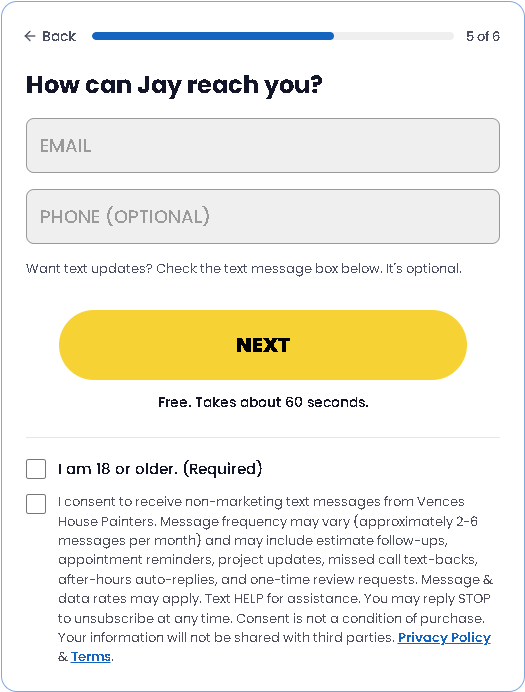
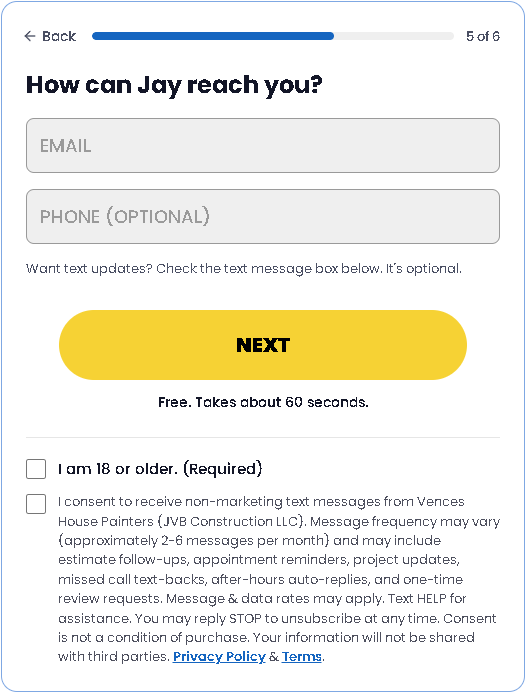
Tie the site to the A2P legal entity: JVB Construction LLC d/b/a Vences House Painters
The brand was registered under EIN as JVB CONSTRUCTION LLC. Reviewers
look for the registered name on the site, so it now appears in the SMS
consent text, both policies (overview, platform operator, program
name), the contact block and the footer. Opt-in screenshot retaken and
A2P doc updated.

Claude-Session: https://claude.ai/code/session_01WZPaWHBYQHxPT3Pw6xzbb7

Changed region(s): [[0.1219, 0.7283, 0.9448, 0.9711]]

diff --git a/src/pages/Terms.tsx b/src/pages/Terms.tsx
@@ -1,17 +1,17 @@
 import { Link } from "react-router-dom";
 import { ContactBlock, Label, LegalPage, Section } from "@/components/Legal";
-import { EMAIL, LEGAL_NAME, PRIVACY_PATH, SITE_URL } from "@/lib/site";
+import { EMAIL, BRAND_NAME, LEGAL_ENTITY, PRIVACY_PATH, SITE_URL } from "@/lib/site";
 import { usePageTitle } from "@/lib/usePageTitle";
 
 const DOMAIN = SITE_URL.replace(/^https?:\/\//, "");
 
 export default function Terms() {
-    usePageTitle(`Terms of Service | ${LEGAL_NAME}`);
+    usePageTitle(`Terms of Service | ${BRAND_NAME}`);
 
     return (
         <LegalPage title="Terms of Service">
             <Section title="Acceptance of Terms">
-                <p>By accessing {DOMAIN} or engaging {LEGAL_NAME}, you agree to these Terms of Service and our <Link to={PRIVACY_PATH} className="text-brand hover:underline">Privacy Policy</Link>. If you do not agree, please do not use the site.</p>
+                <p>{BRAND_NAME} is a d/b/a of {LEGAL_ENTITY}. By accessing {DOMAIN} or engaging {BRAND_NAME}, you agree to these Terms of Service and our <Link to={PRIVACY_PATH} className="text-brand hover:underline">Privacy Policy</Link>. If you do not agree, please do not use the site.</p>
             </Section>
 
             <Section title="Eligibility & Age Restriction">
@@ -19,7 +19,7 @@ export default function Terms() {
             </Section>
 
             <Section title="Our Services">
-                <p>{LEGAL_NAME} provides residential and commercial painting services in the Houston, Texas area, including interior painting, exterior painting, cabinet refinishing, trim and door painting, and drywall repair. Descriptions on this site are general information and do not constitute a binding offer.</p>
+                <p>{BRAND_NAME} provides residential and commercial painting services in the Houston, Texas area, including interior painting, exterior painting, cabinet refinishing, trim and door painting, and drywall repair. Descriptions on this site are general information and do not constitute a binding offer.</p>
             </Section>
 
             <Section title="Estimates">
@@ -27,8 +27,8 @@ export default function Terms() {
             </Section>
 
             <Section title="SMS / Text Messaging Terms">
-                <p><Label>Platform Operator:</Label> {LEGAL_NAME} uses QuickLaunchWeb as its platform operator for all SMS communications. QuickLaunchWeb sends all text messages on behalf of {LEGAL_NAME}. All phone numbers used for messaging are owned and operated by QuickLaunchWeb under a single brand registration.</p>
-                <p><Label>Program Name:</Label> {`${LEGAL_NAME} SMS Program`}</p>
+                <p><Label>Platform Operator:</Label> {BRAND_NAME} ({LEGAL_ENTITY}) uses QuickLaunchWeb as its platform operator for all SMS communications. QuickLaunchWeb sends all text messages on behalf of {BRAND_NAME}. All phone numbers used for messaging are owned and operated by QuickLaunchWeb under a single brand registration.</p>
+                <p><Label>Program Name:</Label> {`${BRAND_NAME} SMS Program (${LEGAL_ENTITY})`}</p>
                 <p><Label>How to Opt In:</Label> Website form only. You opt in by checking the unchecked SMS consent box on our estimate request form. The phone number field is optional, and consent is not required to request an estimate or to buy any service. You must be 18 or older to opt in.</p>
                 <p><Label>Program Description:</Label> When you submit an estimate request on our website and opt in to SMS by checking the consent checkbox, you may receive the following types of service-related, non-marketing text messages:</p>
                 <ul className="list-disc space-y-1 pl-5">
@@ -48,11 +48,11 @@ export default function Terms() {
             </Section>
 
             <Section title="Use of the Website">
-                <p>You agree to use the site lawfully and not to interfere with its operation or attempt unauthorized access. All content and branding on this site belong to {LEGAL_NAME} or its licensors and may not be reproduced without permission.</p>
+                <p>You agree to use the site lawfully and not to interfere with its operation or attempt unauthorized access. All content and branding on this site belong to {BRAND_NAME} or its licensors and may not be reproduced without permission.</p>
             </Section>
 
             <Section title="Disclaimers & Limitation of Liability">
-                <p>The site is provided "as is" without warranties of any kind. To the fullest extent permitted by law, {LEGAL_NAME} is not liable for indirect or incidental damages arising from your use of the site. Nothing here limits the warranties or obligations stated in a signed project agreement.</p>
+                <p>The site is provided "as is" without warranties of any kind. To the fullest extent permitted by law, {BRAND_NAME} is not liable for indirect or incidental damages arising from your use of the site. Nothing here limits the warranties or obligations stated in a signed project agreement.</p>
             </Section>
 
             <Section title="Governing Law">

diff --git a/api/send.ts b/api/send.ts
@@ -3,7 +3,7 @@ import { Resend } from "resend";
 import { pushToGhl } from "./_ghl";
 import { assess, verifyTurnstile } from "./_spam";
 import { SERVICES, SITUATIONS, TIMELINES, byValue } from "../src/lib/estimate";
-import { LEGAL_NAME, PHONE_DISPLAY, PHONE_TEL, SITE_URL } from "../src/lib/site";
+import { BRAND_NAME, PHONE_DISPLAY, PHONE_TEL, SITE_URL } from "../src/lib/site";
 
 export const config = { runtime: "nodejs" };
 
@@ -157,7 +157,7 @@ export default async function handler(req: VercelRequest, res: VercelResponse) {
   <table role="presentation" cellpadding="0" cellspacing="0" width="100%" style="max-width:600px;margin:0 auto;background:#fff;border:1px solid #e5e7eb;border-radius:16px;overflow:hidden;">
     <tr><td style="border-top:6px solid #1B1F24;padding:18px 20px;border-bottom:1px solid #f1f5f9;">
       <table role="presentation" width="100%"><tr>
-        <td style="font-size:16px;font-weight:700;color:#1B1F24;">${esc(LEGAL_NAME)}</td>
+        <td style="font-size:16px;font-weight:700;color:#1B1F24;">${esc(BRAND_NAME)}</td>
         <td align="right"><span style="background:${ACCENT};color:#fff;font-weight:700;font-size:12px;padding:6px 10px;border-radius:999px;">NEW ESTIMATE REQUEST</span></td>
       </tr></table>
     </td></tr>
@@ -219,13 +219,13 @@ export default async function handler(req: VercelRequest, res: VercelResponse) {
 <div style="background:#f3f4f6;margin:0;padding:24px 12px;font-family:-apple-system,BlinkMacSystemFont,'Segoe UI',Roboto,Helvetica,Arial,sans-serif;color:#111827;">
   <table role="presentation" cellpadding="0" cellspacing="0" width="100%" style="max-width:600px;margin:0 auto;background:#fff;border:1px solid #e5e7eb;border-radius:16px;overflow:hidden;">
     <tr><td style="border-top:6px solid #1B1F24;padding:24px 24px 0;text-align:center;">
-      <div style="font-size:18px;font-weight:800;letter-spacing:0.5px;color:#1B1F24;">${esc(LEGAL_NAME.toUpperCase())}</div>
+      <div style="font-size:18px;font-weight:800;letter-spacing:0.5px;color:#1B1F24;">${esc(BRAND_NAME.toUpperCase())}</div>
       <div style="font-size:11px;color:${ACCENT};letter-spacing:2px;text-transform:uppercase;margin-top:4px;">Houston, Texas</div>
     </td></tr>
     <tr><td style="padding:28px 24px;">
       <div style="font-size:22px;font-weight:800;margin:0 0 16px;color:#1B1F24;">Hi ${esc(firstName)},</div>
       <p style="font-size:15px;color:#374151;line-height:1.7;margin:0 0 16px;">
-        Thank you for reaching out to ${esc(LEGAL_NAME)}. We received your estimate request, and Jay will get back to you within one business day to set up a time to see the project.
+        Thank you for reaching out to ${esc(BRAND_NAME)}. We received your estimate request, and Jay will get back to you within one business day to set up a time to see the project.
       </p>
       <table role="presentation" width="100%" style="border:1px solid #e5e7eb;border-radius:10px;overflow:hidden;font-size:14px;margin-bottom:24px;">
         <tr><td style="background:#f9fafb;padding:12px 16px;font-weight:700;border-bottom:1px solid #e5e7eb;">Your Request</td></tr>
@@ -239,7 +239,7 @@ export default async function handler(req: VercelRequest, res: VercelResponse) {
         Need to reach us sooner? Call <a href="tel:${PHONE_TEL}" style="color:${ACCENT};font-weight:700;text-decoration:none;">${PHONE_DISPLAY}</a>.
       </p>
       <div style="border-top:1px solid #e5e7eb;padding-top:20px;text-align:center;font-size:12px;color:#6b7280;">
-        ${esc(LEGAL_NAME)} · Houston, Texas
+        ${esc(BRAND_NAME)} · Houston, Texas
       </div>
     </td></tr>
   </table>
@@ -266,12 +266,12 @@ export default async function handler(req: VercelRequest, res: VercelResponse) {
         }
 
         await resend.emails.send({
-            from: `${LEGAL_NAME} <leads@quicklaunchweb.us>`,
+            from: `${BRAND_NAME} <leads@quicklaunchweb.us>`,
             to: [email],
             replyTo: toEmail,
             subject: `We received your estimate request, ${firstName}`,
             html: prospectHtml,
-            text: `Hi ${firstName},\n\nThank you for reaching out to ${LEGAL_NAME}. We received your estimate request for ${serviceLabel}, and Jay will get back to you within one business day to set up a time to see the project.\n\nNeed to reach us sooner? Call ${PHONE_DISPLAY}.\n\n${LEGAL_NAME} · Houston, Texas`,
+            text: `Hi ${firstName},\n\nThank you for reaching out to ${BRAND_NAME}. We received your estimate request for ${serviceLabel}, and Jay will get back to you within one business day to set up a time to see the project.\n\nNeed to reach us sooner? Call ${PHONE_DISPLAY}.\n\n${BRAND_NAME} · Houston, Texas`,
         }).catch((err) => console.error("Prospect email failed (non-blocking):", err));
     } catch (error) {
         console.error("Unhandled exception:", error);

diff --git a/src/components/Layout.tsx b/src/components/Layout.tsx
@@ -2,7 +2,7 @@ import { useEffect } from "react";
 import { Link, useLocation } from "react-router-dom";
 import { Phone } from "lucide-react";
 import {
-    ADDRESS, EMAIL, LEGAL_NAME, PHONE_DISPLAY, PHONE_TEL, PRIVACY_PATH, SERVICE_AREA, SERVICES_LINE, TERMS_PATH,
+    ADDRESS, DBA_LINE, EMAIL, BRAND_NAME, LEGAL_ENTITY, PHONE_DISPLAY, PHONE_TEL, PRIVACY_PATH, SERVICE_AREA, SERVICES_LINE, TERMS_PATH,
 } from "@/lib/site";
 
 export default function Layout({ children }: { children: React.ReactNode }) {
@@ -13,9 +13,9 @@ export default function Layout({ children }: { children: React.ReactNode }) {
         <div className="flex min-h-screen flex-col">
             <header className="bg-ink text-white">
                 <div className="wrap flex h-[64px] items-center justify-between gap-4 sm:h-[72px]">
-                    <Link to="/" className="flex items-center gap-2.5" aria-label={`${LEGAL_NAME} home`}>
+                    <Link to="/" className="flex items-center gap-2.5" aria-label={`${BRAND_NAME} home`}>
                         <img src="/img/logo-mark.webp" alt="" width={160} height={125} className="h-9 w-auto sm:h-10" />
-                        <img src="/img/logo-word.webp" alt={LEGAL_NAME} width={520} height={113} className="h-7 w-auto sm:h-8" />
+                        <img src="/img/logo-word.webp" alt={BRAND_NAME} width={520} height={113} className="h-7 w-auto sm:h-8" />
                     </Link>
                     <a href={`tel:${PHONE_TEL}`} className="inline-flex items-center gap-2 rounded-full bg-brand px-4 py-2 text-[14px] font-semibold text-white hover:bg-brand-dark">
                         <Phone className="h-4 w-4" aria-hidden="true" />
@@ -29,9 +29,10 @@ export default function Layout({ children }: { children: React.ReactNode }) {
 
             <footer className="bg-ink text-white/75">
                 <div className="wrap grid gap-8 py-10 text-[14px] sm:grid-cols-[auto_1fr_auto] sm:items-center">
-                    <img src="/img/logo-lockup.webp" alt={LEGAL_NAME} width={640} height={586} loading="lazy" className="h-24 w-auto" />
+                    <img src="/img/logo-lockup.webp" alt={BRAND_NAME} width={640} height={586} loading="lazy" className="h-24 w-auto" />
                     <div>
-                        <p className="font-semibold text-white">{LEGAL_NAME}</p>
+                        <p className="font-semibold text-white">{BRAND_NAME}</p>
+                        <p className="text-white/60">{DBA_LINE}.</p>
                         <p className="mb-2 max-w-md text-white/60">{SERVICES_LINE} Serving {SERVICE_AREA}.</p>
                         <p>{ADDRESS.street}</p>
                         <p>{ADDRESS.city}, {ADDRESS.state} {ADDRESS.zip}</p>
@@ -47,7 +48,7 @@ export default function Layout({ children }: { children: React.ReactNode }) {
                         <Link to={TERMS_PATH} className="py-2 hover:text-white">Terms of Service</Link>
                     </nav>
                     <p className="text-[12px] text-white/50 sm:col-span-3">
-                        © {new Date().getFullYear()} {LEGAL_NAME}. All rights reserved.
+                        © {new Date().getFullYear()} {LEGAL_ENTITY} d/b/a {BRAND_NAME}. All rights reserved.
                     </p>
                 </div>
             </footer>

diff --git a/src/pages/PrivacyPolicy.tsx b/src/pages/PrivacyPolicy.tsx
@@ -1,17 +1,17 @@
 import { Link } from "react-router-dom";
 import { ContactBlock, Label, LegalPage, Section } from "@/components/Legal";
-import { CONSENT_TEXT, EMAIL, LEGAL_NAME, SITE_URL, TERMS_PATH } from "@/lib/site";
+import { CONSENT_TEXT, EMAIL, BRAND_NAME, LEGAL_ENTITY, SITE_URL, TERMS_PATH } from "@/lib/site";
 import { usePageTitle } from "@/lib/usePageTitle";
 
 const DOMAIN = SITE_URL.replace(/^https?:\/\//, "");
 
 export default function PrivacyPolicy() {
-    usePageTitle(`Privacy Policy | ${LEGAL_NAME}`);
+    usePageTitle(`Privacy Policy | ${BRAND_NAME}`);
 
     return (
         <LegalPage title="Privacy Policy">
             <Section title="Overview">
-                <p>{LEGAL_NAME} ("we," "us," or "our") respects your privacy. This policy explains what information we collect through {DOMAIN}, how we use it, and the choices you have. By using this website or contacting us, you agree to this policy.</p>
+                <p>{BRAND_NAME}, a d/b/a of {LEGAL_ENTITY} ("we," "us," or "our"), respects your privacy. This policy explains what information we collect through {DOMAIN}, how we use it, and the choices you have. By using this website or contacting us, you agree to this policy.</p>
             </Section>
 
             <Section title="Information We Collect">
@@ -23,7 +23,7 @@ export default function PrivacyPolicy() {
             </Section>
 
             <Section title="SMS / Text Messaging">
-                <p><Label>Platform Operator Disclosure:</Label> {LEGAL_NAME} uses QuickLaunchWeb as its platform operator for all SMS/text messaging. QuickLaunchWeb is the sole sender of all SMS messages. Phone numbers used for messaging are owned, registered, and operated by QuickLaunchWeb. {LEGAL_NAME} does not independently send text messages. QuickLaunchWeb sends all messages on its behalf.</p>
+                <p><Label>Platform Operator Disclosure:</Label> {BRAND_NAME} ({LEGAL_ENTITY}) uses QuickLaunchWeb as its platform operator for all SMS/text messaging. QuickLaunchWeb is the sole sender of all SMS messages. Phone numbers used for messaging are owned, registered, and operated by QuickLaunchWeb. {BRAND_NAME} does not independently send text messages. QuickLaunchWeb sends all messages on its behalf.</p>
                 <p><Label>Message Types:</Label> All SMS messages sent through our website are service-related, non-marketing messages only. Messages include estimate request confirmations, appointment scheduling and reminders, project updates, missed call text-backs, after-hours auto-replies, and one-time review requests after a completed service. We do not send promotional or marketing text messages.</p>
                 <p><Label>How You Opt In:</Label> The only way to opt in is through the estimate request form on this website. The form includes an optional phone number field and an SMS consent checkbox that is not pre-checked. You must actively check the box to opt in. The checkbox reads:</p>
                 <p className="border-l-2 border-brand/40 pl-4 italic">"{CONSENT_TEXT} Privacy Policy &amp; Terms."</p>

diff --git a/src/lib/site.ts b/src/lib/site.ts
@@ -7,9 +7,15 @@
 
 export const SITE_URL = "https://estimate.venceshousepainterstx.com";
 
-// No LLC / Inc / Company here unless it is on the registration.
-// A corporate identifier that doesn't match the A2P brand is a rejection.
-export const LEGAL_NAME = "Vences House Painters";
+// The trading name customers see everywhere on the site.
+export const BRAND_NAME = "Vences House Painters";
+
+// The entity on the IRS EIN letter and the A2P brand registration.
+// Reviewers look for this on the site, so it appears in the consent text,
+// both policies and the footer, always tied to the brand as a d/b/a.
+export const LEGAL_ENTITY = "JVB Construction LLC";
+export const DBA_LINE = `${BRAND_NAME} is a d/b/a of ${LEGAL_ENTITY}`;
+
 export const OWNER = "Jairo \"Jay\" Vences";
 
 export const PHONE_DISPLAY = "(832) 979-8127";
@@ -40,7 +46,7 @@ export const POLICY_EFFECTIVE = "September 21, 2026";
  * for word in the Privacy Policy. Non-marketing only: no promotional texts.
  */
 export const CONSENT_TEXT =
-    `I consent to receive non-marketing text messages from ${LEGAL_NAME}. Message frequency may vary (approximately 2-6 messages per month) and may include estimate follow-ups, appointment reminders, project updates, missed call text-backs, after-hours auto-replies, and one-time review requests. Message & data rates may apply. Text HELP for assistance. You may reply STOP to unsubscribe at any time. Consent is not a condition of purchase. Your information will not be shared with third parties.`;
+    `I consent to receive non-marketing text messages from ${BRAND_NAME} (${LEGAL_ENTITY}). Message frequency may vary (approximately 2-6 messages per month) and may include estimate follow-ups, appointment reminders, project updates, missed call text-backs, after-hours auto-replies, and one-time review requests. Message & data rates may apply. Text HELP for assistance. You may reply STOP to unsubscribe at any time. Consent is not a condition of purchase. Your information will not be shared with third parties.`;
 
 /**
  * Video sales letter. Drop the finished horizontal (16:9) edit into

diff --git a/src/components/Legal.tsx b/src/components/Legal.tsx
@@ -1,4 +1,4 @@
-import { ADDRESS, EMAIL, LEGAL_NAME, PHONE_DISPLAY, PHONE_TEL, POLICY_EFFECTIVE } from "@/lib/site";
+import { ADDRESS, EMAIL, BRAND_NAME, LEGAL_ENTITY, PHONE_DISPLAY, PHONE_TEL, POLICY_EFFECTIVE } from "@/lib/site";
 
 export function LegalPage({ title, children }: { title: string; children: React.ReactNode }) {
     return (
@@ -27,7 +27,7 @@ export function Label({ children }: { children: React.ReactNode }) {
 export function ContactBlock() {
     return (
         <p>
-            {LEGAL_NAME}<br />
+            {LEGAL_ENTITY} d/b/a {BRAND_NAME}<br />
             {ADDRESS.street}<br />
             {ADDRESS.city}, {ADDRESS.state} {ADDRESS.zip}<br />
             Phone: <a href={`tel:${PHONE_TEL}`} className="text-brand hover:underline">{PHONE_DISPLAY}</a><br />

diff --git a/src/pages/Estimate.tsx b/src/pages/Estimate.tsx
@@ -4,7 +4,7 @@ import GoogleReviews from "@/components/GoogleReviews";
 import ProofBar from "@/components/ProofBar";
 import Vsl from "@/components/Vsl";
 import { HEADLINE, PROOF } from "@/lib/landing";
-import { LEGAL_NAME } from "@/lib/site";
+import { BRAND_NAME } from "@/lib/site";
 import { usePageTitle } from "@/lib/usePageTitle";
 
 // Layout follows acquisition.com/roadmap: headline, big picture,
@@ -12,7 +12,7 @@ import { usePageTitle } from "@/lib/usePageTitle";
 // Quiet Google proof sits above the headline; the full reviews
 // widget sits under everything.
 export default function Estimate() {
-    usePageTitle(`Get 3 Free Painting Prices | ${LEGAL_NAME}`);
+    usePageTitle(`Get 3 Free Painting Prices | ${BRAND_NAME}`);
 
     return (
         <>

diff --git a/a2p/VENCES_A2P_SUBMISSION.md b/a2p/VENCES_A2P_SUBMISSION.md
@@ -5,7 +5,13 @@ Prepared 21 September 2026 · QuickLaunchWeb
 
 ---
 
-## ⚠ Decide the brand lane before submitting
+## Brand: STANDARD (EIN) — registered as JVB CONSTRUCTION LLC
+
+The site states "Vences House Painters is a d/b/a of JVB Construction LLC" in the
+consent text, both policies and the footer, so the registered legal name appears on the
+site the reviewer opens. Campaign use case: **Low Volume Mixed**.
+
+## (Reference) Brand lanes
 
 | If Jay has… | Lane | Legal name field |
 |---|---|---|
@@ -65,7 +71,8 @@ from the Solivance submission).
 ## Business Information
 
 ```
-Legal / Business Name:  Vences House Painters        (see lane table above)
+Legal / Business Name:  JVB CONSTRUCTION LLC         (as on the IRS EIN letter)
+DBA / Brand:            Vences House Painters
 Website:                https://estimate.venceshousepainterstx.com
 Industry:               CONSTRUCTION
 Vertical:               Home Services — Residential & Commercial Painting
@@ -80,13 +87,13 @@ Contact:                Jairo Vences, Owner
 ## Use Case Description
 
 ```
-Vences House Painters is a residential and commercial painting contractor based in Houston, Texas (77095), serving Cypress, Katy, Spring, The Woodlands, Magnolia, Conroe and the greater Houston area. Services are interior and exterior painting, cabinet refinishing, trim and door painting, and drywall repair. When a homeowner submits the estimate request form at https://estimate.venceshousepainterstx.com, they may opt in to SMS by actively checking an unchecked consent checkbox. The phone number field is optional and SMS consent is not a condition of submitting the form, of purchase, or of receiving service. All messages are non-marketing, service-related messages only: confirmation that an estimate request was received, appointment scheduling and reminders for the on-site estimate and the painting work, project status updates during an active job, missed-call text-backs, after-hours auto-replies, and a single review request after a completed job. No promotional or marketing messages are sent. Message frequency varies, approximately 2-6 messages per month. Customers can reply STOP at any time to opt out and HELP for assistance. Proof of opt-in (timestamp, source page URL, phone number, checkbox state, IP address and the exact consent disclosure displayed) is captured and retained on every submission.
+JVB Construction LLC, doing business as Vences House Painters, is a residential and commercial painting contractor based in Houston, Texas (77095), serving Cypress, Katy, Spring, The Woodlands, Magnolia, Conroe and the greater Houston area. Services are interior and exterior painting, cabinet refinishing, trim and door painting, and drywall repair. When a homeowner submits the estimate request form at https://estimate.venceshousepainterstx.com, they may opt in to SMS by actively checking an unchecked consent checkbox. The phone number field is optional and SMS consent is not a condition of submitting the form, of purchase, or of receiving service. All messages are non-marketing, service-related messages only: confirmation that an estimate request was received, appointment scheduling and reminders for the on-site estimate and the painting work, project status updates during an active job, missed-call text-backs, after-hours auto-replies, and a single review request after a completed job. No promotional or marketing messages are sent. Message frequency varies, approximately 2-6 messages per month. Customers can reply STOP at any time to opt out and HELP for assistance. Proof of opt-in (timestamp, source page URL, phone number, checkbox state, IP address and the exact consent disclosure displayed) is captured and retained on every submission.
 ```
 
 ## How do Contacts Opt-in to Messages?
 
 ```
-Contacts opt in by submitting the estimate request form at https://estimate.venceshousepainterstx.com. The SMS consent checkbox and its full disclosure are displayed inside the form card on every step, directly under the button (and above the submit button on the final step), so they are visible on arrival. The phone number field is optional and has no required attribute or asterisk. The SMS consent checkbox is NOT pre-checked; the user must actively check it. Consent is voluntary and is not required to submit the form or to receive service. A separate, required, unchecked "I am 18 or older. (Required)" checkbox appears directly above it. The disclosure reads exactly: "I consent to receive non-marketing text messages from Vences House Painters. Message frequency may vary (approximately 2-6 messages per month) and may include estimate follow-ups, appointment reminders, project updates, missed call text-backs, after-hours auto-replies, and one-time review requests. Message & data rates may apply. Text HELP for assistance. You may reply STOP to unsubscribe at any time. Consent is not a condition of purchase. Your information will not be shared with third parties. Privacy Policy & Terms." The words "Privacy Policy" (https://estimate.venceshousepainterstx.com/privacy-policy) and "Terms" (https://estimate.venceshousepainterstx.com/terms) are clickable links inside the checkbox label, and both pages are also linked in the site footer. Proof of opt-in is captured on every submission: timestamp, source page URL, phone number, checkbox state, IP address and the exact consent text displayed. No mobile opt-in data or SMS consent data is shared, sold, rented or transferred to third parties or affiliates for marketing or promotional purposes.
+Contacts opt in by submitting the estimate request form at https://estimate.venceshousepainterstx.com. The SMS consent checkbox and its full disclosure are displayed inside the form card on every step, directly under the button (and above the submit button on the final step), so they are visible on arrival. The phone number field is optional and has no required attribute or asterisk. The SMS consent checkbox is NOT pre-checked; the user must actively check it. Consent is voluntary and is not required to submit the form or to receive service. A separate, required, unchecked "I am 18 or older. (Required)" checkbox appears directly above it. The disclosure reads exactly: "I consent to receive non-marketing text messages from Vences House Painters (JVB Construction LLC). Message frequency may vary (approximately 2-6 messages per month) and may include estimate follow-ups, appointment reminders, project updates, missed call text-backs, after-hours auto-replies, and one-time review requests. Message & data rates may apply. Text HELP for assistance. You may reply STOP to unsubscribe at any time. Consent is not a condition of purchase. Your information will not be shared with third parties. Privacy Policy & Terms." The words "Privacy Policy" (https://estimate.venceshousepainterstx.com/privacy-policy) and "Terms" (https://estimate.venceshousepainterstx.com/terms) are clickable links inside the checkbox label, and both pages are also linked in the site footer. Proof of opt-in is captured on every submission: timestamp, source page URL, phone number, checkbox state, IP address and the exact consent text displayed. No mobile opt-in data or SMS consent data is shared, sold, rented or transferred to third parties or affiliates for marketing or promotional purposes.
 ```
 
 ---
